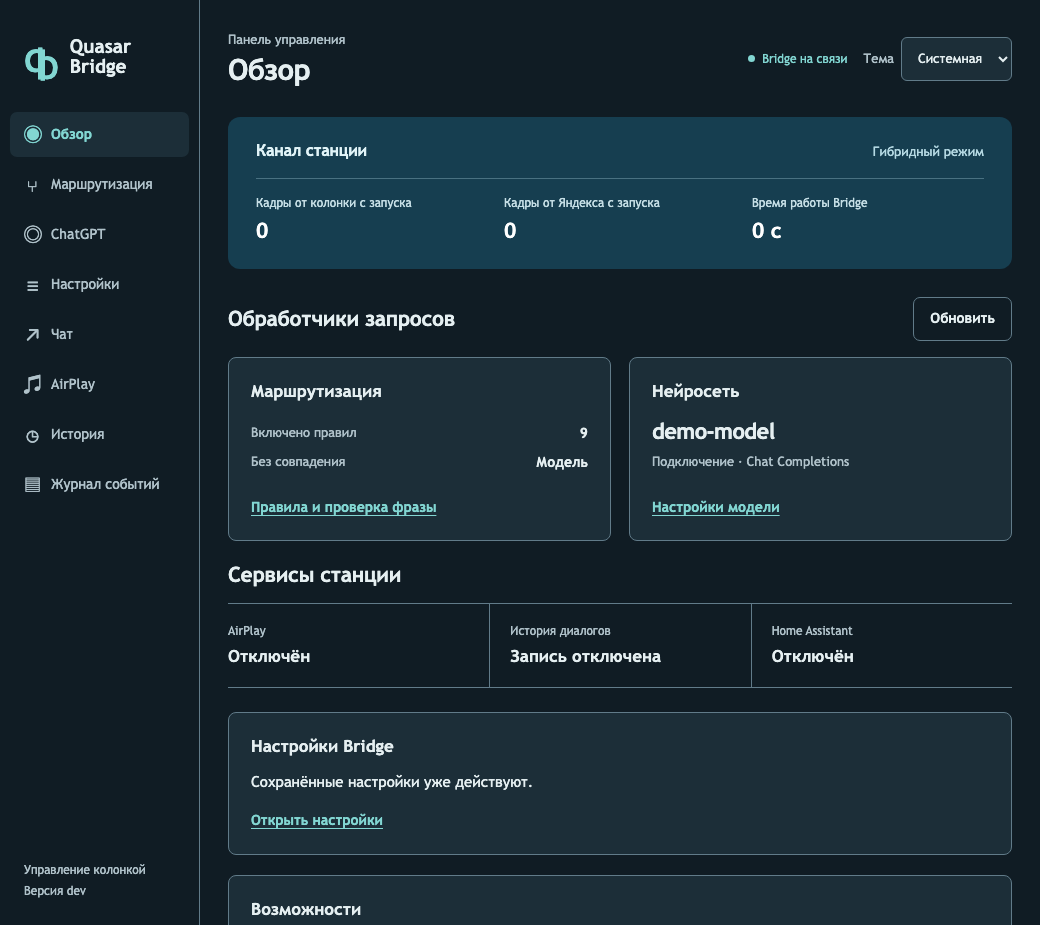
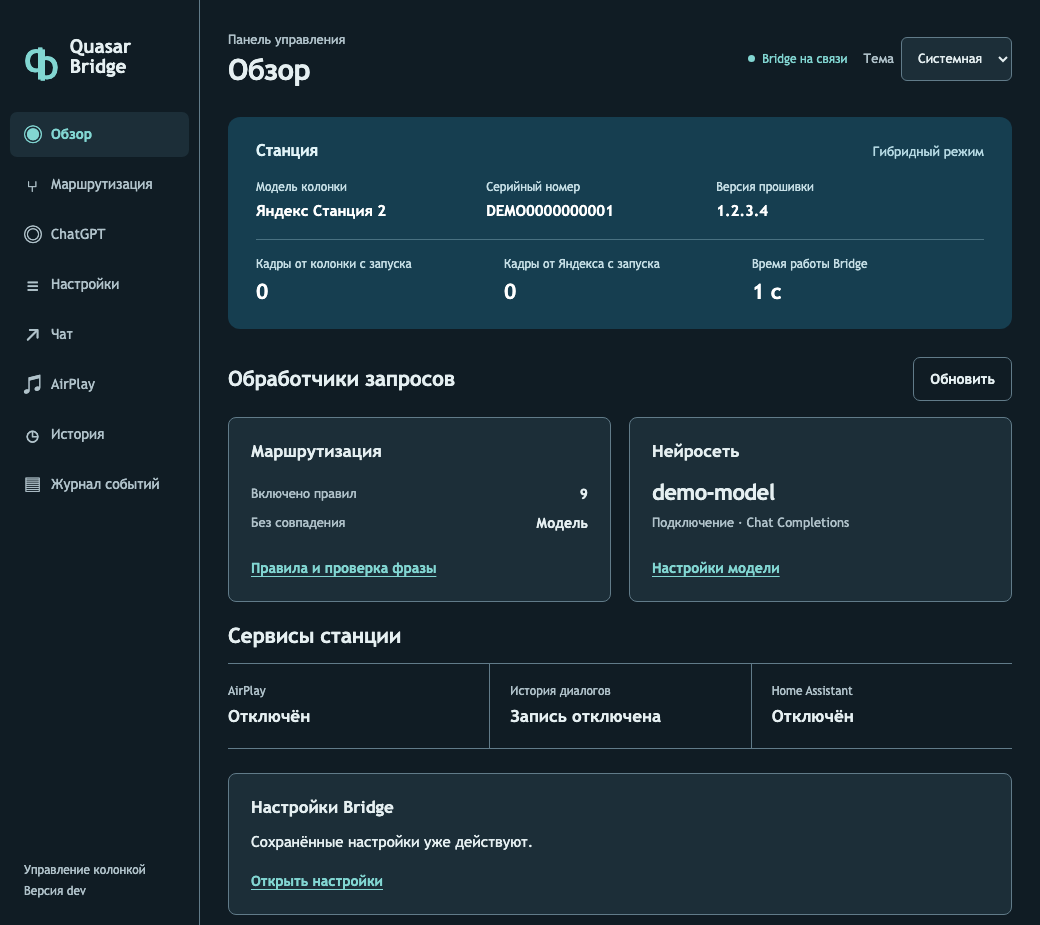
Show speaker model, serial number and firmware on the overview

diff --git a/cmd/quasar-bridge/diagnostics.js b/cmd/quasar-bridge/diagnostics.js
@@ -103,12 +103,24 @@ function renderAirPlay(airplay = {}) {
   byId("set-volume").disabled = state.airplayBusy || !available || !airplay.connected;
   byId("volume-level").disabled = state.airplayBusy || !available || !airplay.connected;
 }
+const stationModels = new Map([
+  ["yandexstation", "Яндекс Станция"], ["yandexstation_2", "Яндекс Станция Макс"],
+  ["yandexmidi", "Яндекс Станция 2"], ["orion", "Яндекс Станция 3"], ["cucumber", "Яндекс Станция Миди"],
+  ["yandexmini", "Яндекс Станция Мини"], ["yandexmini_2", "Яндекс Станция Мини 2"],
+  ["bergamot", "Яндекс Станция Мини 3"], ["pickle", "Яндекс Станция Мини 3 Про"],
+  ["yandexmicro", "Яндекс Станция Лайт"], ["plum", "Яндекс Станция Лайт 2"],
+  ["yandexplum", "Яндекс Станция Лайт 2"], ["mango", "Яндекс Станция Стрит"]
+]);
 function renderStatus(data) {
   state.status = data;
   setConnected(true);
   if (data.version) byId("version").textContent = "Версия " + data.version;
   byId("overview-mode").textContent = ({ hybrid: "Гибридный режим", observe: "Наблюдение", proxy: "Прокси" })[data.mode] || data.mode || "Работает";
   byId("routing-observe").hidden = data.mode !== "observe";
+  const speaker = data.speaker || {};
+  byId("station-model").textContent = stationModels.get(speaker.model) || speaker.model || "Нет данных";
+  byId("station-serial").textContent = speaker.serial_number || "Нет данных";
+  byId("station-firmware").textContent = speaker.firmware_version || "Нет данных";
   byId("frames-up").textContent = data.client_frames?.toLocaleString("ru-RU") ?? "—";
   byId("frames-down").textContent = data.server_frames?.toLocaleString("ru-RU") ?? "—";
   byId("channel-uptime").textContent = uptimeText(data.uptime_seconds);

diff --git a/cmd/quasar-bridge/diagnostics.html b/cmd/quasar-bridge/diagnostics.html
@@ -40,7 +40,12 @@
     <section id="overview" class="page" aria-labelledby="overview-title">
       <h2 id="overview-title" class="visually-hidden">Состояние Bridge</h2>
       <section class="channel" aria-labelledby="channel-title">
-        <div class="channel-head"><h2 id="channel-title">Канал станции</h2><span id="overview-mode">Проверяем режим…</span></div>
+        <div class="channel-head"><h2 id="channel-title">Станция</h2><span id="overview-mode">Проверяем режим…</span></div>
+        <dl id="station-identity" class="station-identity">
+          <div><dt>Модель колонки</dt><dd id="station-model">—</dd></div>
+          <div><dt>Серийный номер</dt><dd id="station-serial">—</dd></div>
+          <div><dt>Версия прошивки</dt><dd id="station-firmware">—</dd></div>
+        </dl>
         <div class="channel-meters"><div><span>Кадры от колонки с запуска</span><strong id="frames-up">—</strong></div><div><span>Кадры от Яндекса с запуска</span><strong id="frames-down">—</strong></div><div><span>Время работы Bridge</span><strong id="channel-uptime">—</strong></div></div>
       </section>
       <div class="section-heading"><h2>Обработчики запросов</h2><button id="refresh-status" type="button" class="quiet">Обновить</button></div>

diff --git a/cmd/quasar-bridge/diagnostics.css b/cmd/quasar-bridge/diagnostics.css
@@ -243,6 +243,9 @@ footer { display:flex; gap:12px; border-top:1px solid var(--line); padding:22px 
 .channel-head,.channel-meters { display:flex; justify-content:space-between; align-items:baseline; gap:16px; }
 .channel-head h2 { font-size:16px; font-weight:600; color:#e1f4f8; }
 .channel-head>span { color:#b5d9e3; font-size:13px; }
+.station-identity { display:grid; grid-template-columns:1fr 1fr 1.25fr; gap:16px; margin:16px 0 0; }
+.station-identity dt { color:#c6dfe6; }
+.station-identity dd { margin:4px 0 0; color:#fff; font-size:15px; font-weight:600; font-variant-numeric:tabular-nums; overflow-wrap:anywhere; }
 .channel-meters { border-top:1px solid #497181; margin-top:16px; padding-top:15px; }
 .channel-meters>div { flex:1; }
 .channel-meters span,.channel-meters strong { display:block; }
@@ -307,6 +310,9 @@ footer { display:flex; gap:12px; border-top:1px solid var(--line); padding:22px 
   .channel { padding:19px 17px; }
   .channel-head { gap:8px; }
   .channel-head>span { font-size:11px; }
+  .station-identity { grid-template-columns:1fr; gap:8px; }
+  .station-identity>div { display:grid; grid-template-columns:7.5rem minmax(0,1fr); align-items:baseline; gap:8px; }
+  .station-identity dd { margin:0; text-align:right; }
   .channel-meters { gap:8px; }
   .channel-meters span { font-size:11px; }
   .channel-meters strong { font-size:17px; }

diff --git a/internal/bridge/subscription.go b/internal/bridge/subscription.go
@@ -8,6 +8,7 @@ import (
 	"sync"
 
 	"github.com/coder/websocket"
+	application "github.com/skrashevich/quasar-go-genproto/proto/alice/library/client/protos"
 	subscription "github.com/skrashevich/quasar-go-genproto/proto/alice/megamind/protos/common/subscription_state"
 	device "github.com/skrashevich/quasar-go-genproto/proto/alice/protos/api/alicekit/common/device_state"
 	environment "github.com/skrashevich/quasar-go-genproto/proto/alice/protos/api/alicekit/common/environment_state"
@@ -36,6 +37,12 @@ type SpeakerSubscription struct {
 	Endpoints            []SubscriptionEndpoint `json:"endpoints"`
 }
 
+type SpeakerInfo struct {
+	Model           string `json:"model,omitempty"`
+	SerialNumber    string `json:"serial_number,omitempty"`
+	FirmwareVersion string `json:"firmware_version,omitempty"`
+}
+
 type SubscriptionEndpoint struct {
 	EndpointID         string `json:"endpoint_id"`
 	Status             string `json:"status"`
@@ -50,6 +57,7 @@ type subscriptionSession struct {
 	up, down             Sender
 	delegate             Session
 	deviceID             string
+	speaker              SpeakerInfo
 	deviceSubscription   string
 	aliceProSubscription string
 	endpoints            map[string]SubscriptionEndpoint
@@ -82,6 +90,19 @@ func (m *SubscriptionMonitor) Snapshot() []SpeakerSubscription {
 	}
 	slices.SortFunc(out, func(a, b SpeakerSubscription) int { return cmp.Compare(a.Connection, b.Connection) })
 	return out
+}
+
+// Speaker returns metadata only when one connected speaker can be identified.
+// It is used by the diagnostics panel, separately from the public health response.
+func (m *SubscriptionMonitor) Speaker() SpeakerInfo {
+	m.mu.Lock()
+	defer m.mu.Unlock()
+	if len(m.sessions) == 1 {
+		for _, session := range m.sessions {
+			return session.speaker
+		}
+	}
+	return SpeakerInfo{}
 }
 
 func (s *subscriptionSession) Client(ctx context.Context, kind websocket.MessageType, data []byte) error {
@@ -124,6 +145,9 @@ func (s *subscriptionSession) Client(ctx context.Context, kind websocket.Message
 				}
 			}
 			if identityMatches {
+				if deviceID != "" {
+					s.observeSpeaker(deviceID, req.GetApplication(), env.GetEndpoints())
+				}
 				sub := ds.GetDeviceSubscriptionState()
 				if sub == nil && deviceID != "" {
 					for _, info := range env.GetDevices() {
@@ -169,11 +193,29 @@ func (s *subscriptionSession) Client(ctx context.Context, kind websocket.Message
 	return nil
 }
 
+func (s *subscriptionSession) observeSpeaker(id string, app *application.TClientInfoProto, endpoints []*endpoint.TEndpoint) {
+	var hw *endpoint.TEndpoint_TDeviceInfo
+	for _, ep := range endpoints {
+		if ep.GetId() == id {
+			hw = ep.GetMeta().GetDeviceInfo()
+			break
+		}
+	}
+	s.monitor.mu.Lock()
+	defer s.monitor.mu.Unlock()
+	if s.deviceID == id {
+		s.speaker.Model = cmp.Or(app.GetDeviceModelName(), app.GetDeviceModel(), hw.GetModel(), s.speaker.Model)
+		s.speaker.FirmwareVersion = cmp.Or(app.GetFirmwareVersion(), app.GetDeviceFirmware(), hw.GetSwVersion(), s.speaker.FirmwareVersion)
+		s.speaker.SerialNumber = cmp.Or(hw.GetSerialNumber(), s.speaker.SerialNumber)
+	}
+}
+
 func (s *subscriptionSession) bindDevice(id string) {
 	s.monitor.mu.Lock()
 	defer s.monitor.mu.Unlock()
 	if id == "" || id != s.deviceID {
 		s.deviceID = id
+		s.speaker = SpeakerInfo{}
 		s.setDeviceSubscription("unknown")
 		s.setAliceProSubscription("unknown")
 	}

diff --git a/internal/bridge/subscription_test.go b/internal/bridge/subscription_test.go
@@ -454,6 +454,46 @@ func subscriptionDevice(appID, stateID string, status subscription.TSubscription
 	return &environment.TEnvironmentDeviceInfo{Application: &application.TClientInfoProto{DeviceId: new(appID)}, OneOfStates: &environment.TEnvironmentDeviceInfo_SpeakerDeviceState{SpeakerDeviceState: &device.TDeviceState{DeviceId: new(stateID), DeviceSubscriptionState: &subscription.TSubscriptionState{Subscription: status}}}}
 }
 
+func TestPanelSpeakerInfoFollowsConnectedRequester(t *testing.T) {
+	var m SubscriptionMonitor
+	s := m.NewSession(nil, nil, nil)
+	ep := func(id, serial string) *endpoint.TEndpoint {
+		return &endpoint.TEndpoint{Id: id, Meta: &endpoint.TEndpoint_TMeta{DeviceInfo: &endpoint.TEndpoint_TDeviceInfo{
+			Model: "yandexmidi", SwVersion: "1.2.3", SerialNumber: serial,
+		}}}
+	}
+	env := &environment.TEnvironmentState{Endpoints: []*endpoint.TEndpoint{ep("other", "foreign"), ep("local", "demo-serial")}}
+	send := func(id string, env *environment.TEnvironmentState) {
+		t.Helper()
+		frame := subscriptionRequest(t, &device.TDeviceState{DeviceId: new(id)}, id, env, true)
+		if err := s.Client(t.Context(), websocket.MessageBinary, frame); err != nil {
+			t.Fatal(err)
+		}
+	}
+	send("local", env)
+	send("local", nil)
+	if got := m.Speaker(); got != (SpeakerInfo{Model: "yandexmidi", FirmwareVersion: "1.2.3", SerialNumber: "demo-serial"}) {
+		t.Fatalf("wrong requester: %+v", got)
+	}
+	health, err := json.Marshal(m.Snapshot())
+	if err != nil || bytes.Contains(health, []byte("demo-serial")) {
+		t.Fatal("serial number in public health response")
+	}
+	second := m.NewSession(nil, nil, nil)
+	if m.Speaker() != (SpeakerInfo{}) {
+		t.Fatal("ambiguous station displayed")
+	}
+	second.Close()
+	send("new", env)
+	if m.Speaker() != (SpeakerInfo{}) {
+		t.Fatal("inherited a different speaker's details")
+	}
+	s.Close()
+	if m.Speaker() != (SpeakerInfo{}) {
+		t.Fatal("closed speaker displayed")
+	}
+}
+
 func subscriptionRequest(t *testing.T, ds *device.TDeviceState, appID string, env *environment.TEnvironmentState, raw bool) []byte {
 	t.Helper()
 	r := &request.TAliceRequestProto_TRequest{}

diff --git a/cmd/quasar-bridge/main.go b/cmd/quasar-bridge/main.go
@@ -400,8 +400,14 @@ func main() {
 		state := engine.RoutingStatus()
 		return map[string]any{"status": "ok", "mode": cfg.Mode, "airplay": airPlayHealth(airPlay), "client_frames": clientCount.Load(), "server_frames": serverCount.Load(), "routing_revision": state.Revision, "routing_rules": state.ActiveRules, "routing_classifier_enabled": state.ClassifierEnabled, "routing_default_route": state.DefaultRoute, "conversation_log_enabled": logs.Enabled(), "conversation_log_failures": logs.Failures(), "assistant_tools_enabled": cfg.AssistantTools.Enabled, "dialogue_context_enabled": cfg.DialogueContext.Enabled && cfg.Mode == "hybrid", "home_assistant_enabled": hc != nil && cfg.Mode == "hybrid", "mcp_servers_configured": mcpConfigured, "music_playback_enabled": musicQueue != nil, "speaker_subscriptions": subscriptions.Snapshot()}
 	}
+	localSpeaker := readSpeakerInfo(*speakerConfig, "/proc/cmdline")
 	panelStatus := func() map[string]any {
 		result := status()
+		speaker := localSpeaker
+		if speaker == (bridge.SpeakerInfo{}) {
+			speaker = subscriptions.Speaker()
+		}
+		result["speaker"] = speaker
 		result["run"] = diagnosticLogs.run
 		result["version"], result["llm_model"], result["llm_api"] = update.Version, configuration.activeModel(), cfg.LLMAPI
 		result["uptime_seconds"] = int64(time.Since(startedAt).Seconds())

diff --git a/cmd/quasar-bridge/speaker_info.go b/cmd/quasar-bridge/speaker_info.go
@@ -1,0 +1,42 @@
+package main
+
+import (
+	"encoding/json/v2"
+	"os"
+	"path/filepath"
+	"strings"
+
+	"quasarbridge/internal/bridge"
+)
+
+// The Quasar firmware stores its full build and the bootloader's serial
+// separately. androidboot.deviceid is an account-facing ID, not that serial.
+func readSpeakerInfo(configPath, cmdlinePath string) bridge.SpeakerInfo {
+	var cfg struct {
+		Common struct {
+			DeviceType      string `json:"deviceType"`
+			SoftwareVersion string `json:"softwareVersion"`
+		} `json:"common"`
+	}
+	var info bridge.SpeakerInfo
+	if raw, err := os.ReadFile(configPath); err == nil && json.Unmarshal(raw, &cfg) == nil {
+		info.Model = strings.TrimSpace(cfg.Common.DeviceType)
+		info.FirmwareVersion = strings.TrimSpace(cfg.Common.SoftwareVersion)
+	}
+	if raw, err := os.ReadFile(filepath.Join(filepath.Dir(configPath), "version_full")); err == nil {
+		if version := strings.TrimSpace(string(raw)); version != "" {
+			info.FirmwareVersion = version
+		}
+	}
+	if info == (bridge.SpeakerInfo{}) {
+		return info
+	}
+	cmdline, _ := os.ReadFile(cmdlinePath)
+	for field := range strings.FieldsSeq(string(cmdline)) {
+		if serial, ok := strings.CutPrefix(field, "androidboot.serialno="); ok {
+			info.SerialNumber = strings.Trim(serial, `"`)
+			break
+		}
+	}
+	return info
+}

diff --git a/cmd/quasar-bridge/speaker_info_test.go b/cmd/quasar-bridge/speaker_info_test.go
@@ -1,0 +1,35 @@
+package main
+
+import (
+	"os"
+	"path/filepath"
+	"testing"
+
+	"quasarbridge/internal/bridge"
+)
+
+func TestReadSpeakerInfo(t *testing.T) {
+	dir := t.TempDir()
+	cfg, boot := filepath.Join(dir, "quasar.cfg"), filepath.Join(dir, "cmdline")
+	write := func(path, text string) {
+		t.Helper()
+		if err := os.WriteFile(path, []byte(text), 0600); err != nil {
+			t.Fatal(err)
+		}
+	}
+	write(boot, "console=tty0 androidboot.deviceid=unrelated androidboot.serialno=DEMO0000000001\n")
+	if got := readSpeakerInfo(cfg, boot); got != (bridge.SpeakerInfo{}) {
+		t.Fatalf("reported the external host as a speaker: %+v", got)
+	}
+	write(cfg, `{"common":{"deviceType":"yandexmidi","softwareVersion":"1.2"}}`)
+	want := bridge.SpeakerInfo{Model: "yandexmidi", FirmwareVersion: "1.2", SerialNumber: "DEMO0000000001"}
+	if got := readSpeakerInfo(cfg, boot); got != want {
+		t.Fatalf("got %+v, want %+v", got, want)
+	}
+	write(filepath.Join(dir, "version_full"), "1.2.3.4\n")
+	write(boot, "androidboot.deviceid=unrelated")
+	want.FirmwareVersion, want.SerialNumber = "1.2.3.4", ""
+	if got := readSpeakerInfo(cfg, boot); got != want {
+		t.Fatalf("got %+v, want %+v", got, want)
+	}
+}
